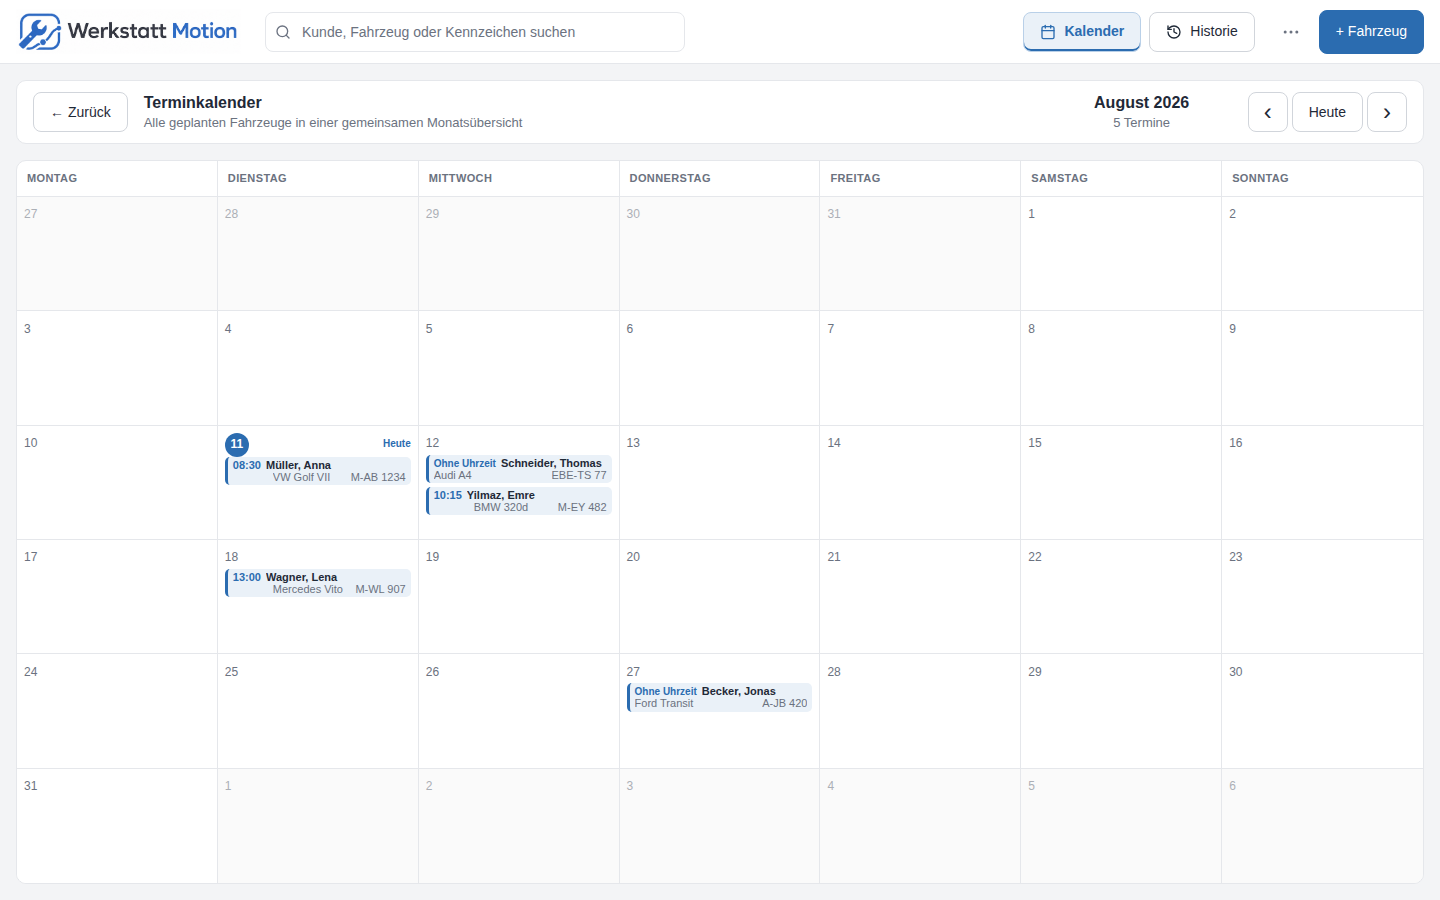
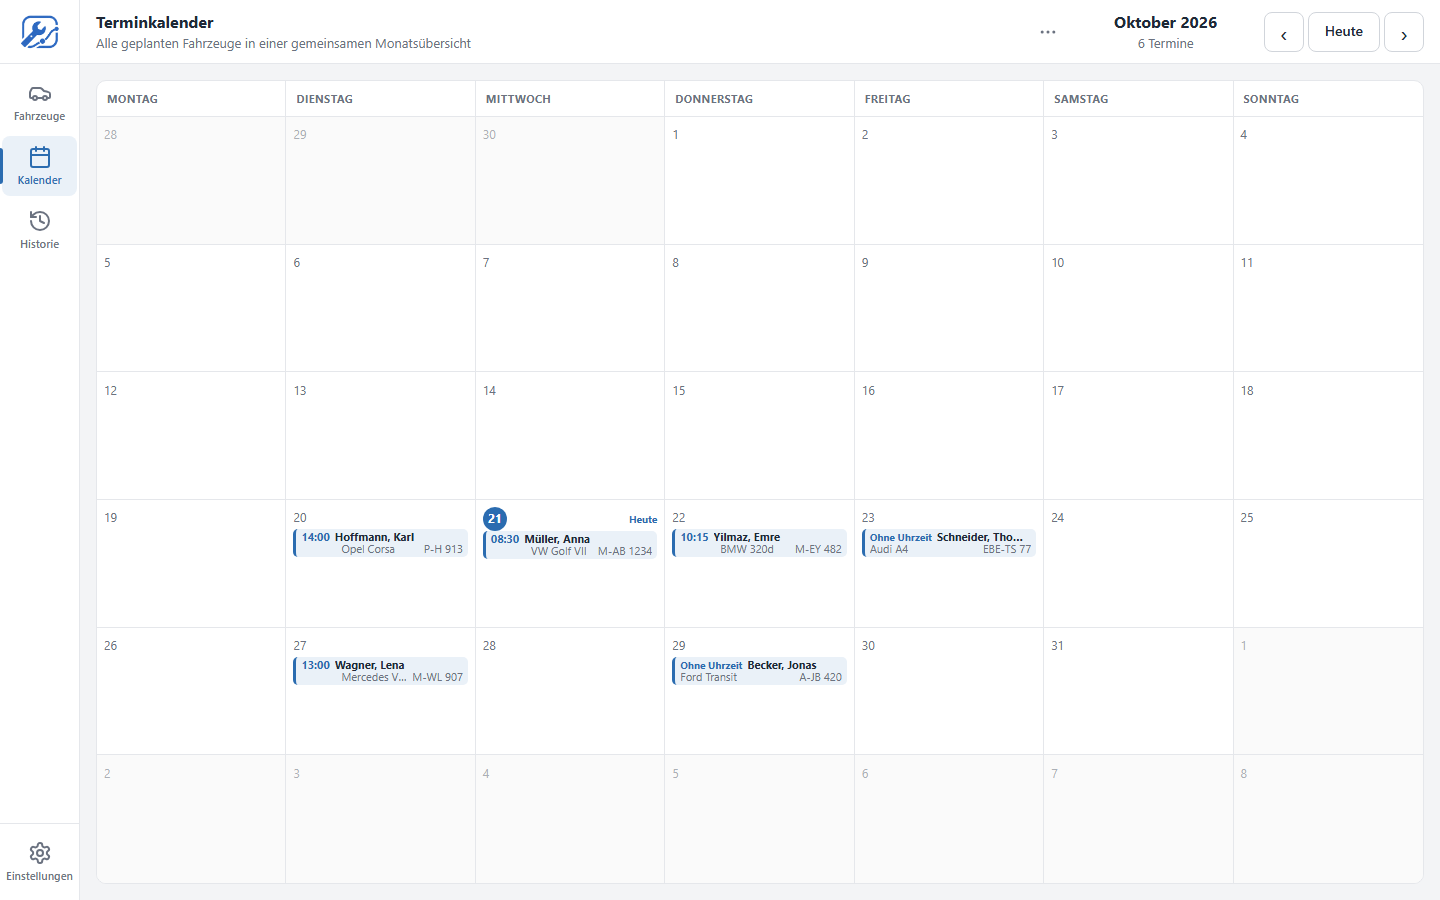
docs: README und Screenshots an Bereiche, Einstellungen und Datensicherung anpassen
Die Screenshots zeigen das neue Layout mit Bereichsleiste und Termin-Spalte.

diff --git a/README.md b/README.md
@@ -19,11 +19,30 @@ Keine verschachtelten Menüs, kein unnötiger Papierkram – einfach öffnen und
 - Zusätzliche Kosten diskret in einem versteckten Bereich erfassen
 - Fahrzeuge schnell nach Kunde, Kennzeichen oder Modell finden
 - Erledigte Aufträge in der Historie nachschlagen
-- Daten auf einem USB-Stick oder an einem anderen Ort sichern
+- Daten täglich automatisch sichern – zusätzlich auf einem USB-Stick oder Netzlaufwerk
 - Neue Versionen direkt in der App suchen und sicher installieren
 - Funktioniert auch ohne Internet
 
 ## So einfach geht's
+
+### Zwischen Bereichen wechseln
+
+Links am Fensterrand liegt die Leiste mit den Bereichen **„Fahrzeuge“**,
+**„Kalender“** und **„Historie“**. Ein Klick wechselt direkt in den Bereich;
+der aktuelle Bereich ist blau markiert.
+
+Jeder Bereich bringt seine eigene Kopfzeile mit: Die Suche und **„+ Fahrzeug“**
+stehen nur im Bereich **„Fahrzeuge“**, die Historie hat ihre eigene Suche, und
+der Kalender zeigt dort Monat und Navigation. Strg+F springt in die Suche des
+aktuellen Bereichs.
+
+Ganz unten in der Leiste liegen die **„Einstellungen“**. Dort steht jeder Bereich
+einzeln in einer Liste, daneben seine Einstellungen. Bereiche, die noch keine
+haben, zeigen einen Hinweis. Bei **„Fahrzeuge“** lassen sich die Spalten der
+Fahrzeugliste ein- und ausblenden und ihre Reihenfolge zurücksetzen. Unter den
+Bereichen steht die **„Datensicherung“** für die ganze App (siehe unten). Wo
+etwas eine Erklärung braucht, steht ein kleiner Info-Knopf (ⓘ): Beim
+Darüberfahren oder Anklicken zeigt er, was dort passiert.
 
 ### Fahrzeug anlegen
 
@@ -56,19 +75,28 @@ vorhandenen Termin klicken. Datum und optional eine Uhrzeit auswählen und
 speichern; der Wochentag wird automatisch ermittelt. Die Uhrzeit kann leer
 bleiben. Mit **„Termin entfernen“** lässt sich die Planung wieder löschen.
 
-Über den gut sichtbaren Button **„Kalender“** öffnet sich die Monatsübersicht.
+Der Termin darf auch zuerst kommen – praktisch, wenn ein Kunde am Telefon
+zunächst sagt, wann er kommen kann: Nach **„+ Fahrzeug“** in der neuen Zeile
+auf **„Termin hinzufügen“** klicken, Datum und Uhrzeit wählen und mit
+**„Termin speichern“** bestätigen. Der Cursor springt danach in das Feld
+**„Kunde“**. Gespeichert wird die Zeile samt Termin, sobald Kunde sowie Fahrzeug
+oder Kennzeichen eingetragen sind und die Zeile verlassen wird. Ein Termin ohne
+Kunden wird nicht aufgehoben: Wird die Zeile ohne Kunden verlassen, ist der
+Eintrag wieder verworfen.
+
+Über **„Kalender“** in der Leiste links öffnet sich die Monatsübersicht.
 Dort erscheinen dieselben Fahrzeugtermine mit Uhrzeit beziehungsweise dem
 Hinweis **„Ohne Uhrzeit“**, Kunde, Fahrzeug und Kennzeichen. Änderungen aus der
 Fahrzeugliste sind unmittelbar auch im Kalender sichtbar.
 
-Über die beiden Arbeitsansichten **„Kalender“** und **„Historie“** lässt sich
-jederzeit zwischen anstehenden Terminen und abgeschlossenen Vorgängen wechseln.
+Über die Leiste links lässt sich jederzeit zwischen Fahrzeugen, anstehenden
+Terminen und abgeschlossenen Vorgängen wechseln.
 
 ![Werkstatt Motion mit Monatskalender sowie den Ansichten Kalender und Historie](docs/images/werkstatt-motion-kalender.png)
 
 ### Historie öffnen
 
-Über den Button **„Historie“** werden abgeschlossene Fahrzeuge als
+Über **„Historie“** in der Leiste links werden abgeschlossene Fahrzeuge als
 unveränderliche Snapshots angezeigt. Zusätzlich sind dort bereits bezahlte
 Kosten mit Fahrzeug, Kennzeichen, Betrag und Zahlungszeitpunkt zu finden. Das
 Suchfeld filtert beide Bereiche gemeinsam.
@@ -148,7 +176,10 @@ Werkstatt Motion erstellt automatisch höchstens ein vollständiges Backup pro
 Kalendertag. Beim App-Start wird sofort geprüft, ob die heutige Sicherung fehlt;
 bei länger geöffneter App läuft diese Prüfung stündlich weiter. Tägliche Backups
 werden für 14 Tage aufbewahrt, ältere tägliche Sicherungen löscht die App
-automatisch. Dazu muss die App an dem jeweiligen Tag geöffnet sein.
+automatisch – die drei neuesten bleiben aber immer erhalten, auch wenn sie älter
+sind. So geht nach einer längeren Pause (Urlaub, defekter Rechner) die letzte gute
+Sicherung davor nicht verloren. Dazu muss die App an dem jeweiligen Tag geöffnet
+sein.
 
 Die täglichen Sicherungen liegen im Anwendungsdatenverzeichnis:
 
@@ -157,12 +188,42 @@ Windows: %APPDATA%\de.werkstattmotion.desktop\backups
 Linux:   ~/.local/share/de.werkstattmotion.desktop/backups
 ```
 
-Über **„Backup“** lässt sich jederzeit eine Sicherung erstellen – zum Beispiel
-auf einem USB-Stick. Mit **„Wiederherstellen“** kann eine Sicherung später
-wieder eingespielt werden.
+### Zweiter Speicherort und „Jetzt sichern“
 
-**Empfehlung:** Regelmäßig ein Backup erstellen und getrennt vom Werkstatt-PC
-aufbewahren.
+Unter **„Einstellungen“ › „Datensicherung“** steht, wann zuletzt gesichert wurde –
+auf diesem Computer und am zweiten Speicherort. Mit **„Ordner wählen …“** (später
+**„Ändern …“**) lässt sich ein Ordner auf einem USB-Stick oder Netzlaufwerk
+festlegen, **„Entfernen“** nimmt ihn wieder heraus. Die App legt darin einen
+eigenen Ordner an (`Werkstatt-Motion-Sicherung-<Computername>`) und sichert nur
+dort: Jeden Tag kommt eine Kopie hinzu (`taeglich-…`), und nach 14 Tagen räumt sie
+dort wie auf dem Computer auf (auch hier bleiben mindestens die drei neuesten) –
+ausschließlich ihre eigenen täglichen Dateien.
+Alles andere im gewählten Ordner bleibt unberührt, und mehrere Computer können
+sich einen Stick teilen. Die erste Kopie entsteht gleich nach dem Einrichten.
+
+Außer diesem eigenen Ordner legt die App im zweiten Speicherort nie etwas an. Ist
+der USB-Stick nicht eingesteckt oder das Netzlaufwerk nicht verbunden – oder steckt
+am selben Laufwerksbuchstaben ein anderer Datenträger –, schreibt sie nichts auf ein
+anderes Laufwerk. Stattdessen weist sie darauf hin (einmal pro Tag) und zeigt es in
+den Einstellungen rot an. Liegt die letzte Sicherung mehr als zwei Tage zurück,
+färbt sich auch diese Zeile rot. Sobald der Ordner wieder erreichbar ist, holt die
+App die heutige Kopie beim nächsten Prüflauf nach.
+
+**„Jetzt sichern“** schreibt sofort eine Sicherung in den zweiten Speicherort
+(`manuell-<Datum>_<Uhrzeit>.werkstattbackup`); manuelle Sicherungen löscht die
+App nie. Ist noch kein zweiter Speicherort eingerichtet, fragt sie wie das Menü
+**„Backup“** nach dem Ziel. Die Wahl des Ordners steht in der Datei
+`sicherung.json` neben der Datenbank und bleibt auch nach einer
+Wiederherstellung erhalten.
+
+### Backup von Hand
+
+Über **„Backup“** im Drei-Punkte-Menü lässt sich jederzeit eine Sicherung an
+einem frei gewählten Ort erstellen – zum Beispiel auf einem USB-Stick. Mit
+**„Wiederherstellen“** kann eine Sicherung später wieder eingespielt werden.
+
+**Empfehlung:** Einen zweiten Speicherort einrichten und regelmäßig ein Backup
+getrennt vom Werkstatt-PC aufbewahren.
 
 ### Automatische Sicherung wiederherstellen
 
